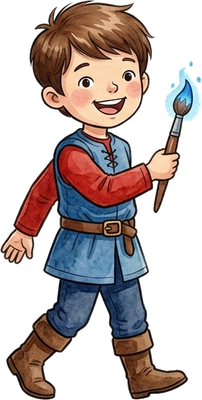
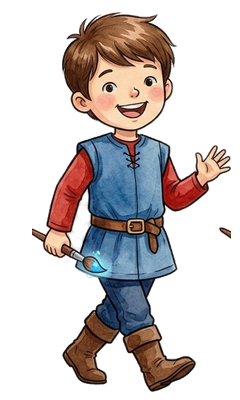
fix(anim): estabilizar ciclo de caminhada de Matheus em perspectiva 3/4 com alinhamento de cabeça, pés e pincel (v=7.0)

diff --git a/js/entities/npc.js b/js/entities/npc.js
@@ -19,48 +19,48 @@ class NPC {
 
     if (this.type.startsWith('matheus')) {
       framePaths = [
-        'assets/images/characters/matheus_walk1.png?v=6.0',
-        'assets/images/characters/matheus_walk2.png?v=6.0',
-        'assets/images/characters/matheus_walk3.png?v=6.0',
-        'assets/images/characters/matheus_walk4.png?v=6.0'
+        'assets/images/characters/matheus_walk1.png?v=7.0',
+        'assets/images/characters/matheus_walk2.png?v=7.0',
+        'assets/images/characters/matheus_walk3.png?v=7.0',
+        'assets/images/characters/matheus_walk4.png?v=7.0'
       ];
     } else if (this.type === 'pedro_stand') {
       framePaths = [
-        'assets/images/characters/pedro_walk1.png?v=6.0',
-        'assets/images/characters/pedro_walk2.png?v=6.0',
-        'assets/images/characters/pedro_walk3.png?v=6.0',
-        'assets/images/characters/pedro_walk4.png?v=6.0'
+        'assets/images/characters/pedro_walk1.png?v=7.0',
+        'assets/images/characters/pedro_walk2.png?v=7.0',
+        'assets/images/characters/pedro_walk3.png?v=7.0',
+        'assets/images/characters/pedro_walk4.png?v=7.0'
       ];
     } else if (this.type === 'pedro' || this.type === 'pedro_horse') {
       framePaths = [
-        'assets/images/characters/pedro_horse_gallop1.png?v=6.0',
-        'assets/images/characters/pedro_horse_gallop2.png?v=6.0',
-        'assets/images/characters/pedro_horse_gallop3.png?v=6.0',
-        'assets/images/characters/pedro_horse_gallop4.png?v=6.0'
+        'assets/images/characters/pedro_horse_gallop1.png?v=7.0',
+        'assets/images/characters/pedro_horse_gallop2.png?v=7.0',
+        'assets/images/characters/pedro_horse_gallop3.png?v=7.0',
+        'assets/images/characters/pedro_horse_gallop4.png?v=7.0'
       ];
     } else if (this.type.startsWith('maria_rosa')) {
       framePaths = [
-        'assets/images/characters/maria_rosa_walk1.png?v=6.0',
-        'assets/images/characters/maria_rosa_walk2.png?v=6.0',
-        'assets/images/characters/maria_rosa_walk3.png?v=6.0',
-        'assets/images/characters/maria_rosa_walk4.png?v=6.0'
+        'assets/images/characters/maria_rosa_walk1.png?v=7.0',
+        'assets/images/characters/maria_rosa_walk2.png?v=7.0',
+        'assets/images/characters/maria_rosa_walk3.png?v=7.0',
+        'assets/images/characters/maria_rosa_walk4.png?v=7.0'
       ];
     } else if (this.type === 'mago') {
-      const p1 = this.isBW ? 'assets/images/characters/mago_magic_bw.png?v=6.0' : 'assets/images/characters/mago_magic.png?v=6.0';
-      const p2 = this.isBW ? 'assets/images/characters/mago_magic_bw.png?v=6.0' : 'assets/images/characters/mago_idle.png?v=6.0';
+      const p1 = this.isBW ? 'assets/images/characters/mago_magic_bw.png?v=7.0' : 'assets/images/characters/mago_magic.png?v=7.0';
+      const p2 = this.isBW ? 'assets/images/characters/mago_magic_bw.png?v=7.0' : 'assets/images/characters/mago_idle.png?v=7.0';
       framePaths = [p1, p2];
     } else if (this.type === 'king_stand') {
       framePaths = [
-        'assets/images/characters/king_idle.png?v=6.0',
-        'assets/images/characters/king_walk1.png?v=6.0'
+        'assets/images/characters/king_idle.png?v=7.0',
+        'assets/images/characters/king_walk1.png?v=7.0'
       ];
     } else if (this.type === 'queen_stand') {
       framePaths = [
-        'assets/images/characters/queen_idle.png?v=6.0',
-        'assets/images/characters/queen_walk1.png?v=6.0'
+        'assets/images/characters/queen_idle.png?v=7.0',
+        'assets/images/characters/queen_walk1.png?v=7.0'
       ];
     } else {
-      framePaths = ['assets/images/characters/children_trio.png?v=6.0'];
+      framePaths = ['assets/images/characters/children_trio.png?v=7.0'];
     }
 
     this.frames = framePaths.map(p => {

diff --git a/PC/index.html b/PC/index.html
@@ -173,14 +173,14 @@
   </main>
 
   <!-- Scripts do Jogo Compartilhados -->
-  <script src="js/engine/input.js?v=6.0"></script>
-  <script src="js/engine/audio.js?v=6.0"></script>
-  <script src="js/engine/physics.js?v=6.0"></script>
-  <script src="js/engine/camera.js?v=6.0"></script>
-  <script src="js/entities/player.js?v=6.0"></script>
-  <script src="js/entities/npc.js?v=6.0"></script>
-  <script src="js/entities/collectable.js?v=6.0"></script>
-  <script src="js/levels/levels.js?v=6.0"></script>
-  <script src="js/main.js?v=6.0"></script>
+  <script src="js/engine/input.js?v=7.0"></script>
+  <script src="js/engine/audio.js?v=7.0"></script>
+  <script src="js/engine/physics.js?v=7.0"></script>
+  <script src="js/engine/camera.js?v=7.0"></script>
+  <script src="js/entities/player.js?v=7.0"></script>
+  <script src="js/entities/npc.js?v=7.0"></script>
+  <script src="js/entities/collectable.js?v=7.0"></script>
+  <script src="js/levels/levels.js?v=7.0"></script>
+  <script src="js/main.js?v=7.0"></script>
 </body>
 </html>

diff --git a/celular/index.html b/celular/index.html
@@ -218,14 +218,14 @@
   </main>
 
   <!-- Scripts do Jogo Compartilhados -->
-  <script src="js/engine/input.js?v=6.0"></script>
-  <script src="js/engine/audio.js?v=6.0"></script>
-  <script src="js/engine/physics.js?v=6.0"></script>
-  <script src="js/engine/camera.js?v=6.0"></script>
-  <script src="js/entities/player.js?v=6.0"></script>
-  <script src="js/entities/npc.js?v=6.0"></script>
-  <script src="js/entities/collectable.js?v=6.0"></script>
-  <script src="js/levels/levels.js?v=6.0"></script>
-  <script src="js/main.js?v=6.0"></script>
+  <script src="js/engine/input.js?v=7.0"></script>
+  <script src="js/engine/audio.js?v=7.0"></script>
+  <script src="js/engine/physics.js?v=7.0"></script>
+  <script src="js/engine/camera.js?v=7.0"></script>
+  <script src="js/entities/player.js?v=7.0"></script>
+  <script src="js/entities/npc.js?v=7.0"></script>
+  <script src="js/entities/collectable.js?v=7.0"></script>
+  <script src="js/levels/levels.js?v=7.0"></script>
+  <script src="js/main.js?v=7.0"></script>
 </body>
 </html>

diff --git a/index.html b/index.html
@@ -596,7 +596,7 @@
     function actionStartGame() {
       playBeep(880, 'triangle', 0.12);
       setTimeout(() => {
-        window.location.href = currentPlatform + '/index.html?fase=1&char=' + chosenLeader + '&v=6.0';
+        window.location.href = currentPlatform + '/index.html?fase=1&char=' + chosenLeader + '&v=7.0';
       }, 100);
     }
 
@@ -608,7 +608,7 @@
     function launchPhase(phaseNumber) {
       playBeep(920, 'sine', 0.12);
       setTimeout(() => {
-        window.location.href = currentPlatform + '/index.html?fase=' + phaseNumber + '&direct=1&char=' + chosenLeader + '&v=6.0';
+        window.location.href = currentPlatform + '/index.html?fase=' + phaseNumber + '&direct=1&char=' + chosenLeader + '&v=7.0';
       }, 100);
     }
 

diff --git a/js/entities/player.js b/js/entities/player.js
@@ -66,12 +66,12 @@ class Character {
     spriteNames.forEach(name => {
       // Color sprites
       const imgColor = new Image();
-      imgColor.src = `assets/images/characters/${prefix}_${name}.png?v=6.0`;
+      imgColor.src = `assets/images/characters/${prefix}_${name}.png?v=7.0`;
       this.spritesColor[name] = imgColor;
 
       // Dedicated B&W sprites
       const imgBW = new Image();
-      imgBW.src = `assets/images/characters/${prefix}_${name}_bw.png?v=6.0`;
+      imgBW.src = `assets/images/characters/${prefix}_${name}_bw.png?v=7.0`;
       this.spritesBW[name] = imgBW;
     });
 
